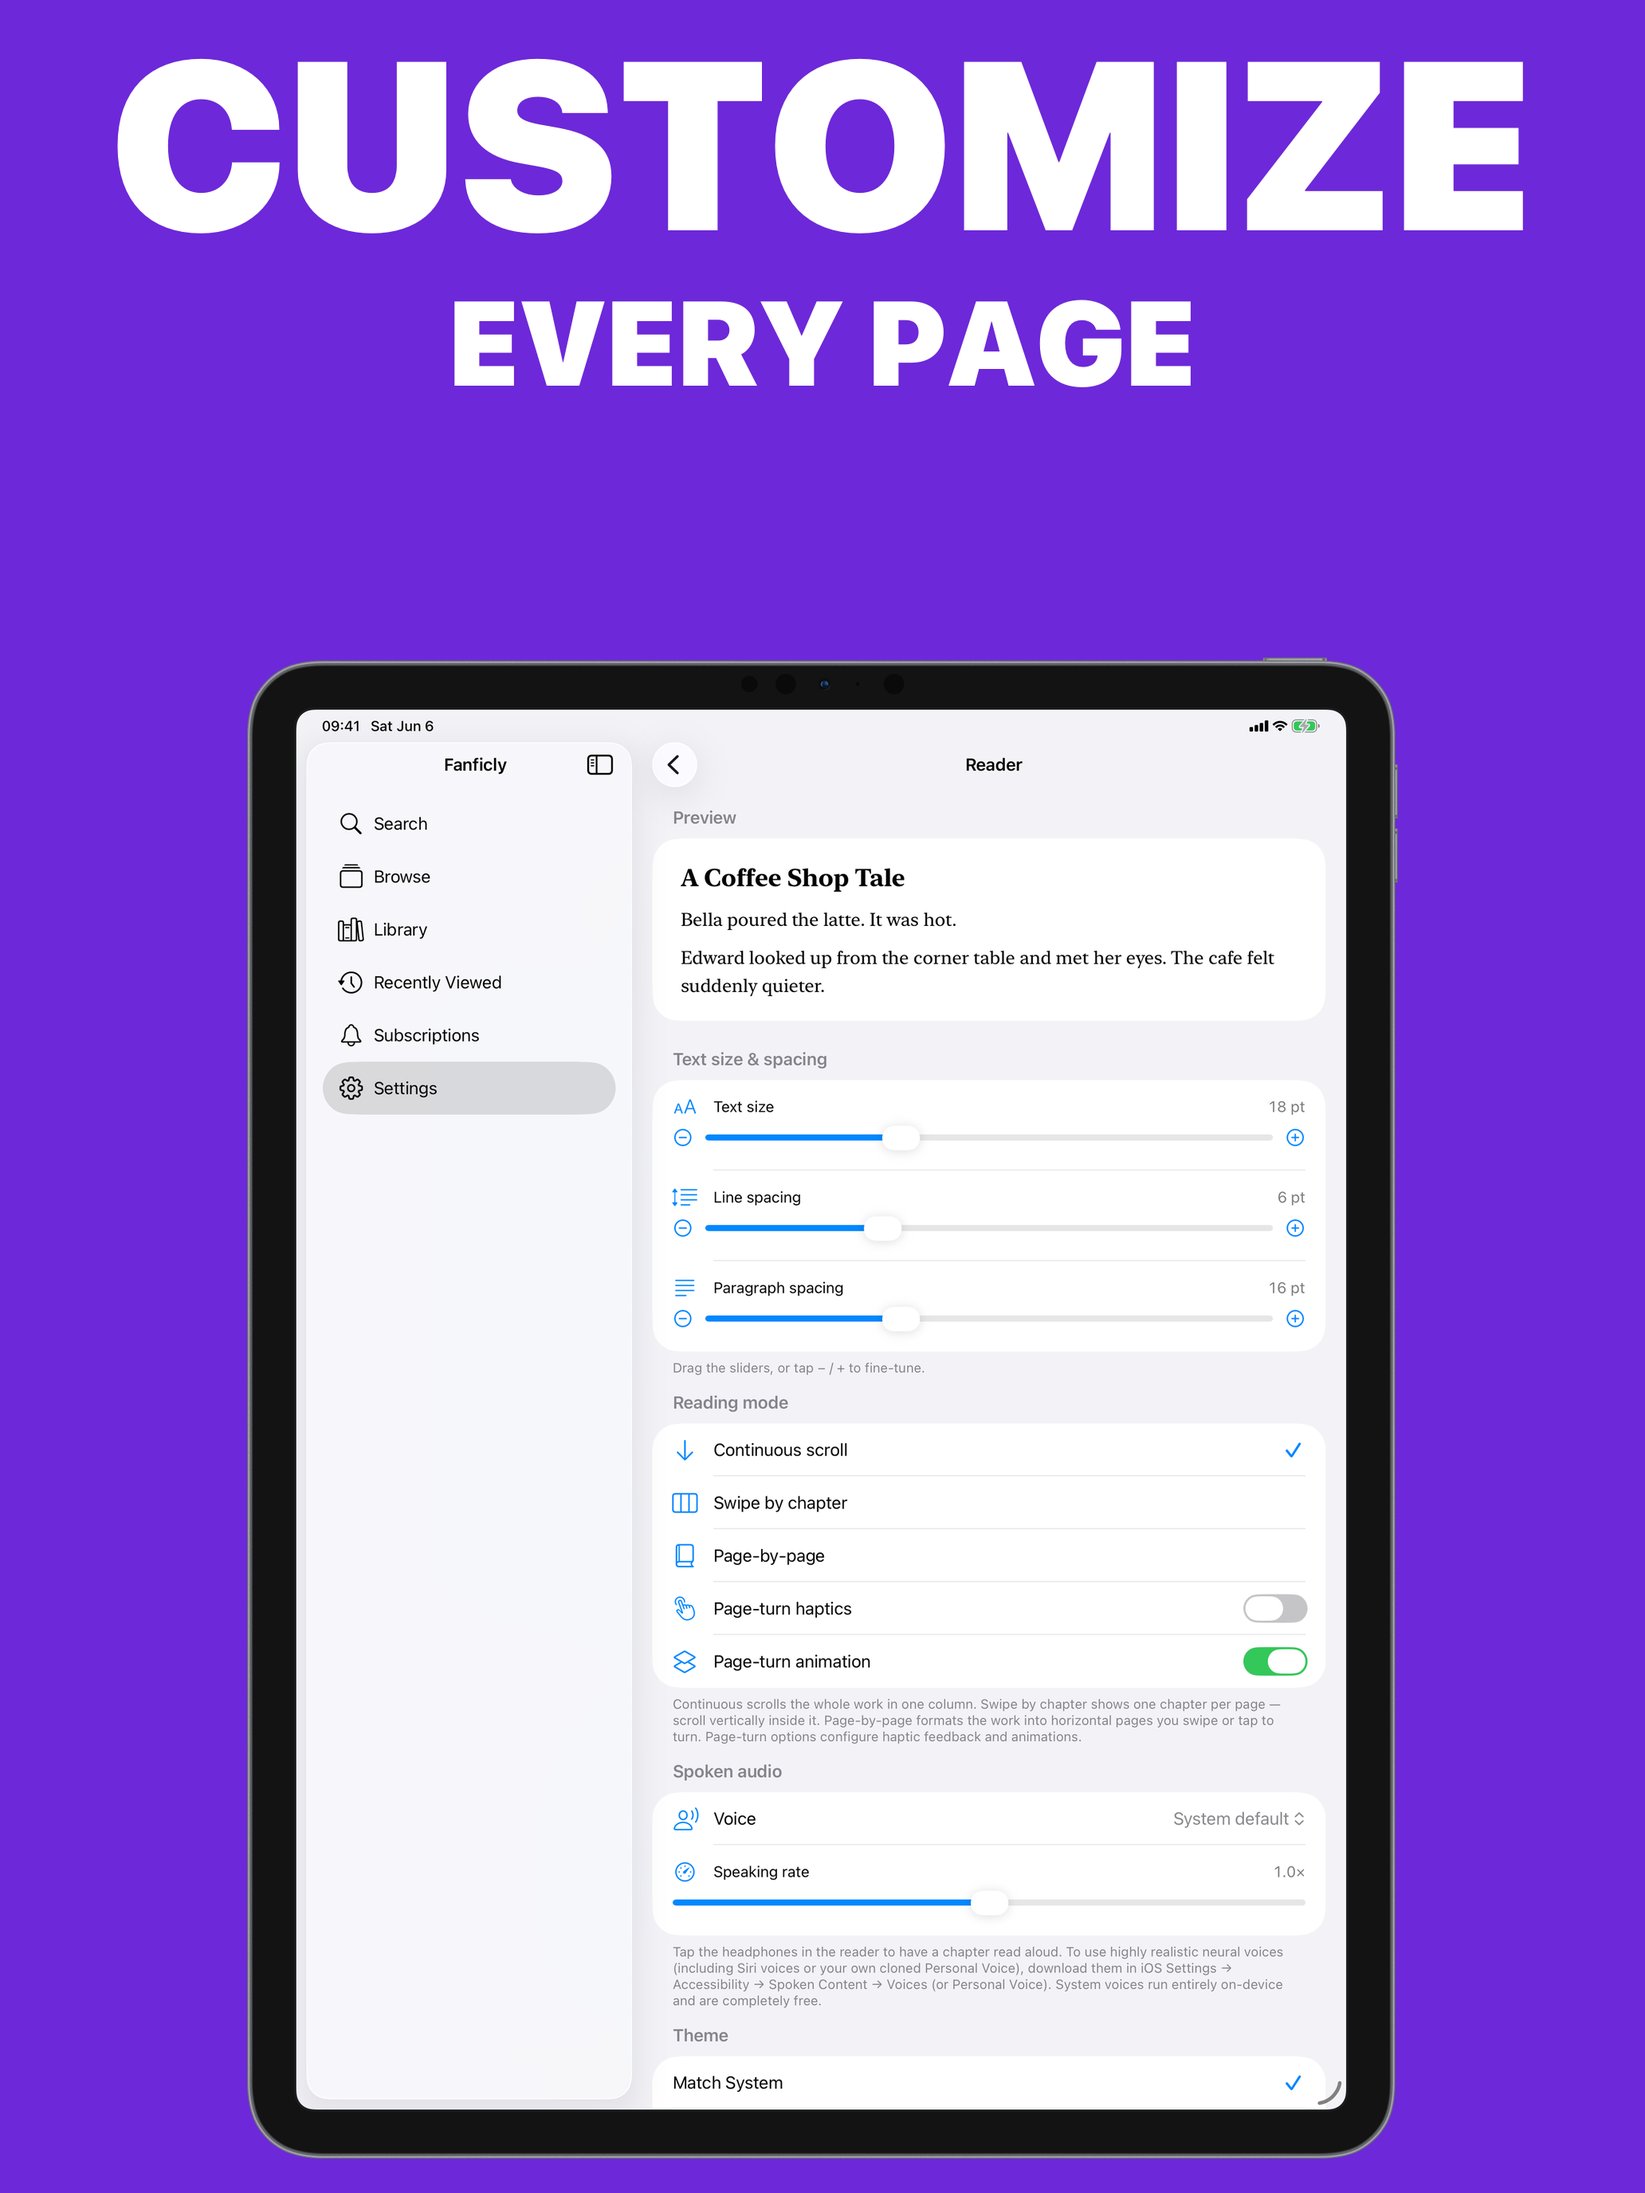
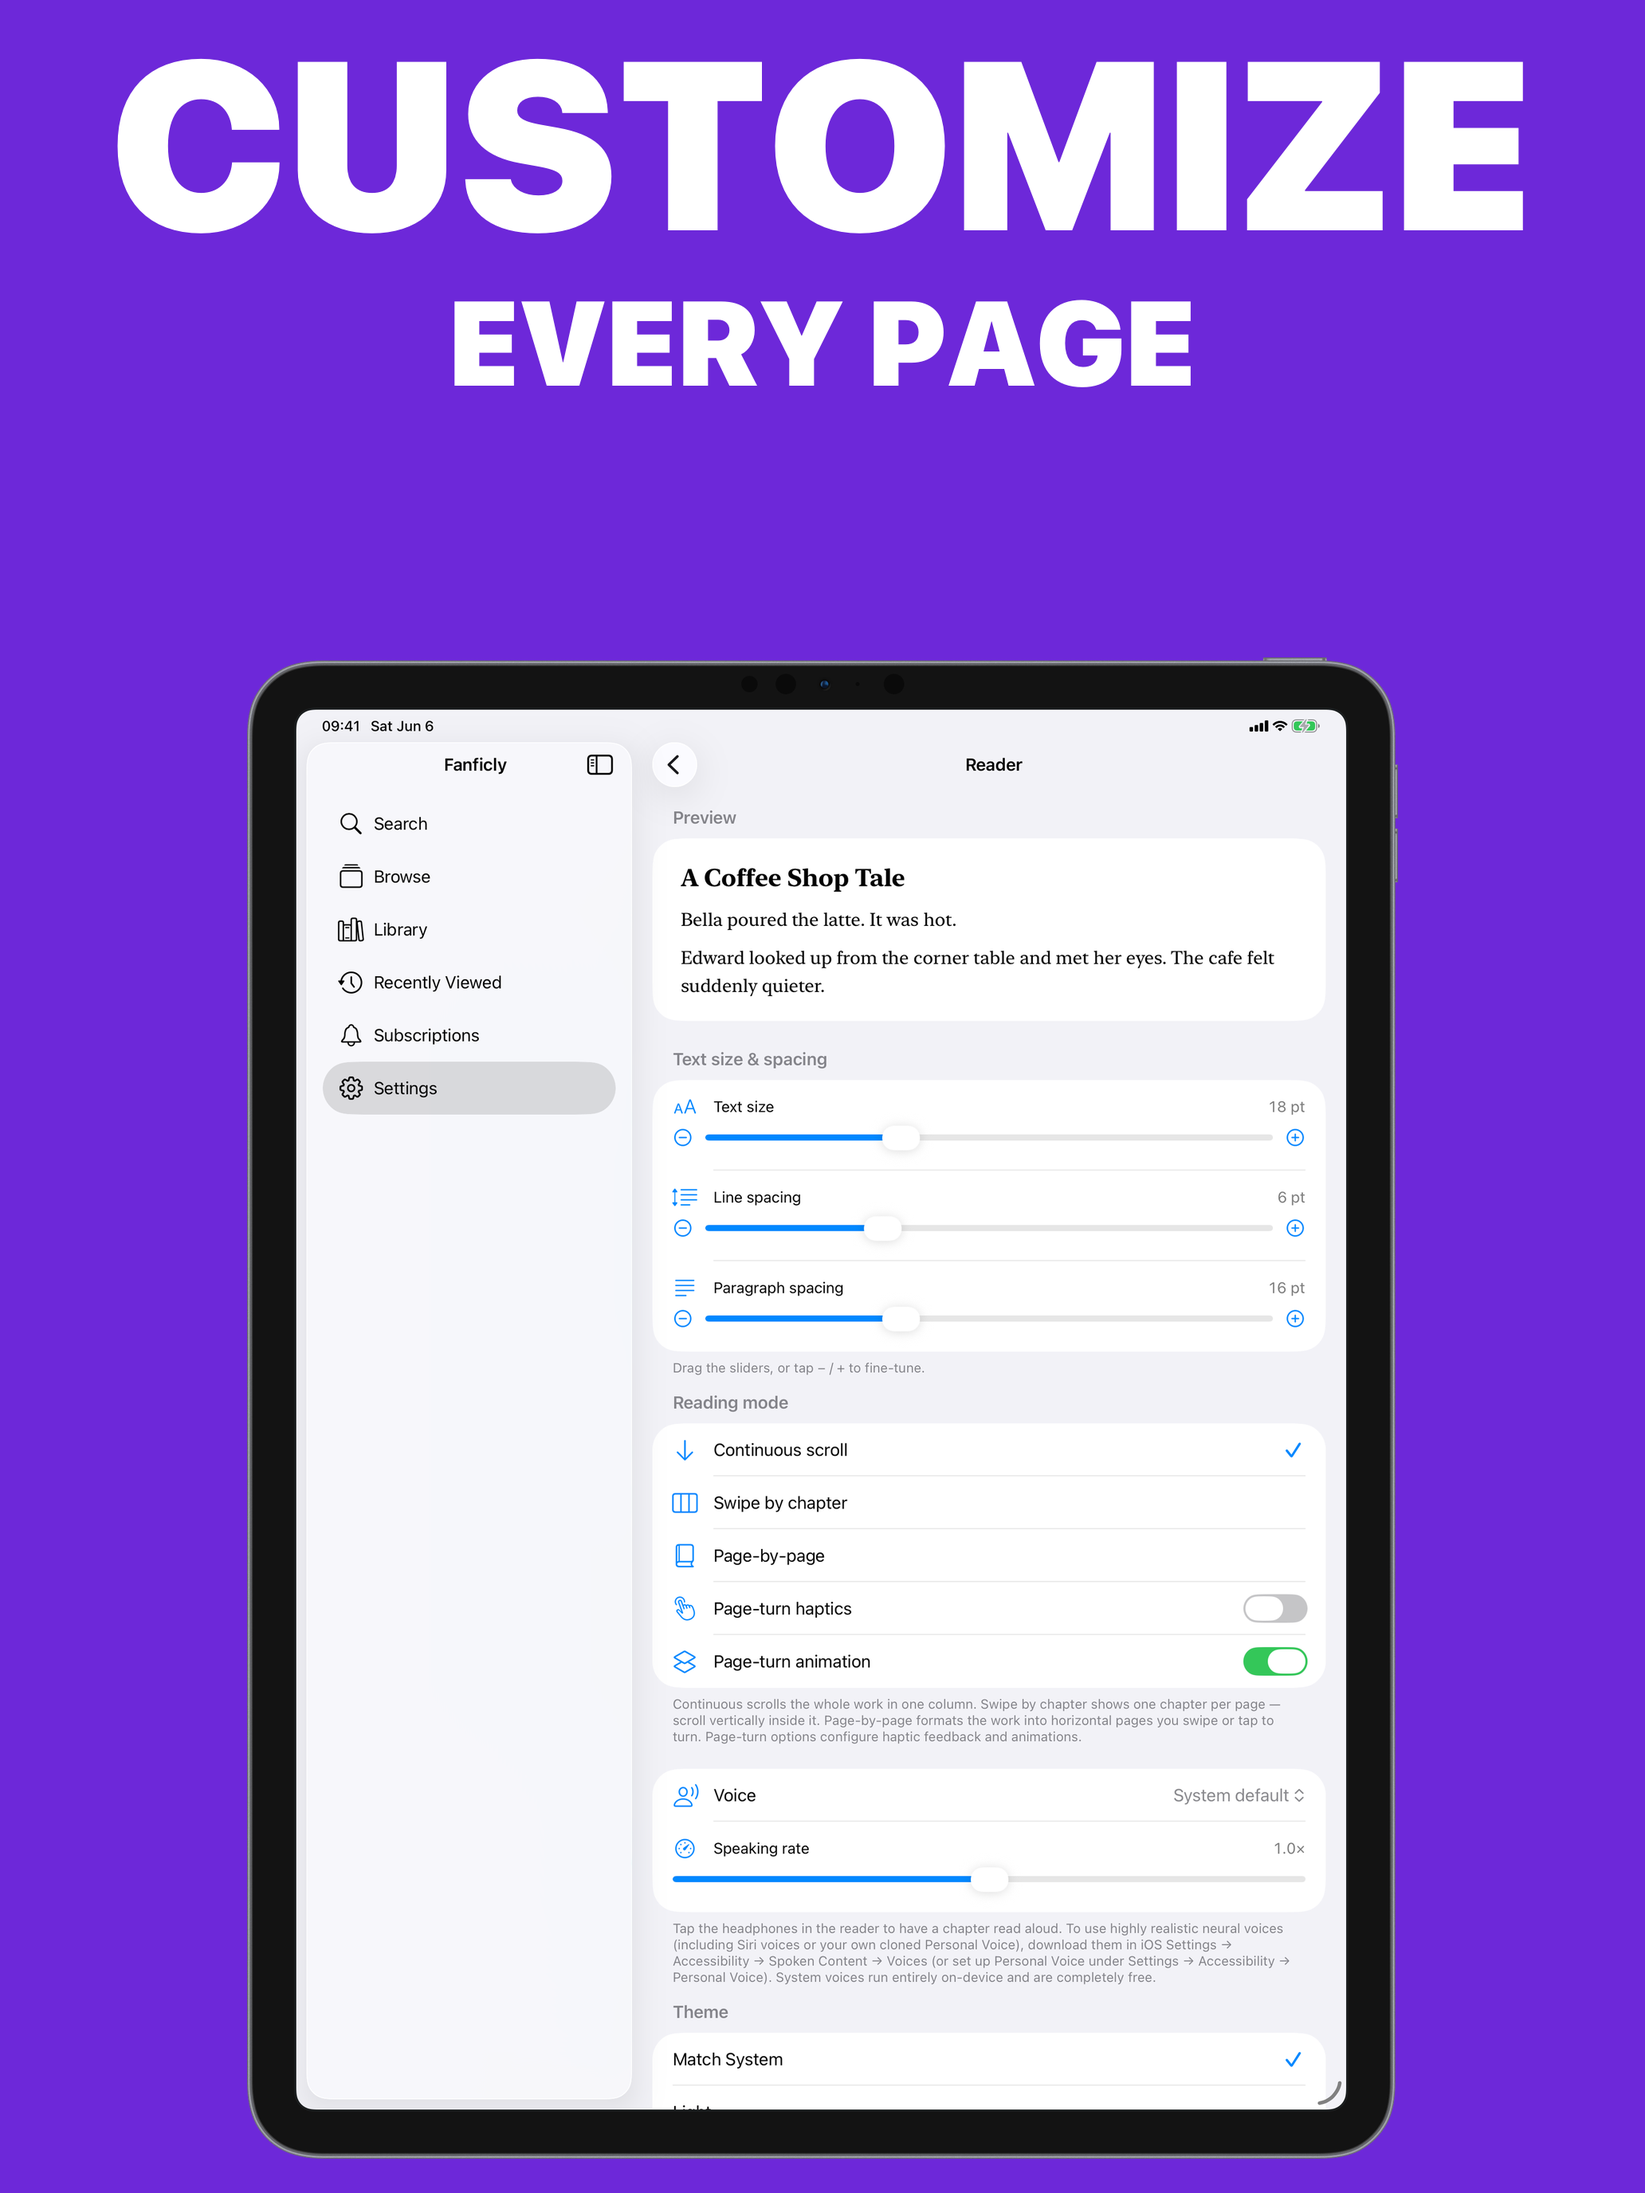
feat: allow changing text-to-speech rate within reading mode view

Changed region(s): [[0.4031, 0.8125, 0.8062, 0.9688]]

diff --git a/Fanficly/Reader/SpeechController.swift b/Fanficly/Reader/SpeechController.swift
@@ -9,7 +9,8 @@ import Observation
 /// Deliberately no third-party model and no network: the system voices run
 /// entirely on-device, which keeps the app's privacy posture intact (nothing
 /// leaves the device). Users can download higher-quality/natural voices in
-/// iOS Settings → Accessibility → Spoken Content → Voices and pick one in
+/// iOS Settings → Accessibility → Spoken Content → Voices (or set up Personal Voice
+/// under Settings → Accessibility → Personal Voice) and pick one in
 /// Reader settings; otherwise the platform default voice is used.
 ///
 /// Paragraphs are enqueued up-front so playback is gapless. We map each
@@ -41,6 +42,27 @@ final class SpeechController: NSObject {
     static let voiceKey = "reader.ttsVoiceId"
     static var defaultRate: Float { AVSpeechUtteranceDefaultSpeechRate }
 
+    /// Current speaking rate multiplier (e.g. 1.0, 1.25, 1.5).
+    var rateMultiplier: Double = 1.0 {
+        didSet {
+            let minMult = Double(AVSpeechUtteranceMinimumSpeechRate / Self.defaultRate)
+            let maxMult = Double(AVSpeechUtteranceMaximumSpeechRate / Self.defaultRate)
+            let clamped = max(minMult, min(maxMult, rateMultiplier))
+            if clamped != rateMultiplier {
+                rateMultiplier = clamped
+                return
+            }
+            let newRaw = rateMultiplier * Double(Self.defaultRate)
+            let oldRaw = UserDefaults.standard.double(forKey: Self.rateKey)
+            if abs(newRaw - oldRaw) > 0.001 {
+                UserDefaults.standard.set(newRaw, forKey: Self.rateKey)
+                if isActive {
+                    enqueue(from: currentParagraph)
+                }
+            }
+        }
+    }
+
     private let synthesizer = AVSpeechSynthesizer()
     /// Index-aligned with the reader's rendered paragraphs; empty entries
     /// (scene breaks) are skipped when speaking but keep their slot.
@@ -55,17 +77,39 @@ final class SpeechController: NSObject {
     override init() {
         super.init()
         synthesizer.delegate = self
+        
+        // Load stored rate multiplier from UserDefaults
+        if let stored = UserDefaults.standard.object(forKey: Self.rateKey) as? Double {
+            self.rateMultiplier = stored / Double(Self.defaultRate)
+        } else {
+            self.rateMultiplier = 1.0
+        }
+        
+        NotificationCenter.default.addObserver(
+            self,
+            selector: #selector(handleUserDefaultsChange),
+            name: UserDefaults.didChangeNotification,
+            object: nil
+        )
+    }
+
+    deinit {
+        NotificationCenter.default.removeObserver(self)
+    }
+
+    @objc private func handleUserDefaultsChange() {
+        if let stored = UserDefaults.standard.object(forKey: Self.rateKey) as? Double {
+            let newMultiplier = stored / Double(Self.defaultRate)
+            if abs(self.rateMultiplier - newMultiplier) > 0.001 {
+                self.rateMultiplier = newMultiplier
+            }
+        }
     }
 
     // MARK: - Live settings (read from @AppStorage's backing store)
 
     private var rate: Float {
-        // @AppStorage("reader.ttsRate") stores a Double; nil until the user
-        // first changes it, in which case fall back to the platform default.
-        if let stored = UserDefaults.standard.object(forKey: Self.rateKey) as? Double {
-            return Float(stored)
-        }
-        return Self.defaultRate
+        Float(rateMultiplier * Double(Self.defaultRate))
     }
 
     private var voice: AVSpeechSynthesisVoice? {

diff --git a/Fanficly/Reader/ReaderView.swift b/Fanficly/Reader/ReaderView.swift
@@ -208,6 +208,30 @@ struct ReaderView: View {
                     .foregroundStyle(fg.opacity(0.6))
             }
             Spacer()
+            
+            // Speaking rate selection menu
+            Menu {
+                ForEach([0.5, 0.8, 1.0, 1.2, 1.5, 1.8, 2.0], id: \.self) { rate in
+                    Button {
+                        speech.rateMultiplier = rate
+                    } label: {
+                        HStack {
+                            Text(String(format: "%.1f×", rate))
+                            if abs(speech.rateMultiplier - rate) < 0.05 {
+                                Image(systemName: "checkmark")
+                            }
+                        }
+                    }
+                }
+            } label: {
+                Text(String(format: "%.1f×", speech.rateMultiplier))
+                    .font(.caption2.weight(.bold))
+                    .padding(.horizontal, 7)
+                    .padding(.vertical, 3)
+                    .background(fg.opacity(0.12))
+                    .cornerRadius(5)
+            }
+            
             Button {
                 speech.stop()
                 listeningChapter = nil

diff --git a/Fanficly/Settings/ReaderSettingsView.swift b/Fanficly/Settings/ReaderSettingsView.swift
@@ -105,10 +105,8 @@ struct ReaderSettingsView: View {
                            in: Double(AVSpeechUtteranceMinimumSpeechRate)...Double(AVSpeechUtteranceMaximumSpeechRate))
                 }
                 .padding(.vertical, 2)
-            } header: {
-                Text("Spoken audio")
             } footer: {
-                Text("Tap the headphones in the reader to have a chapter read aloud. To use highly realistic neural voices (including Siri voices or your own cloned Personal Voice), download them in iOS Settings → Accessibility → Spoken Content → Voices (or Personal Voice). System voices run entirely on-device and are completely free.")
+                Text("Tap the headphones in the reader to have a chapter read aloud. To use highly realistic neural voices (including Siri voices or your own cloned Personal Voice), download them in iOS Settings → Accessibility → Spoken Content → Voices (or set up Personal Voice under Settings → Accessibility → Personal Voice). System voices run entirely on-device and are completely free.")
             }
 
             Section("Theme") {
